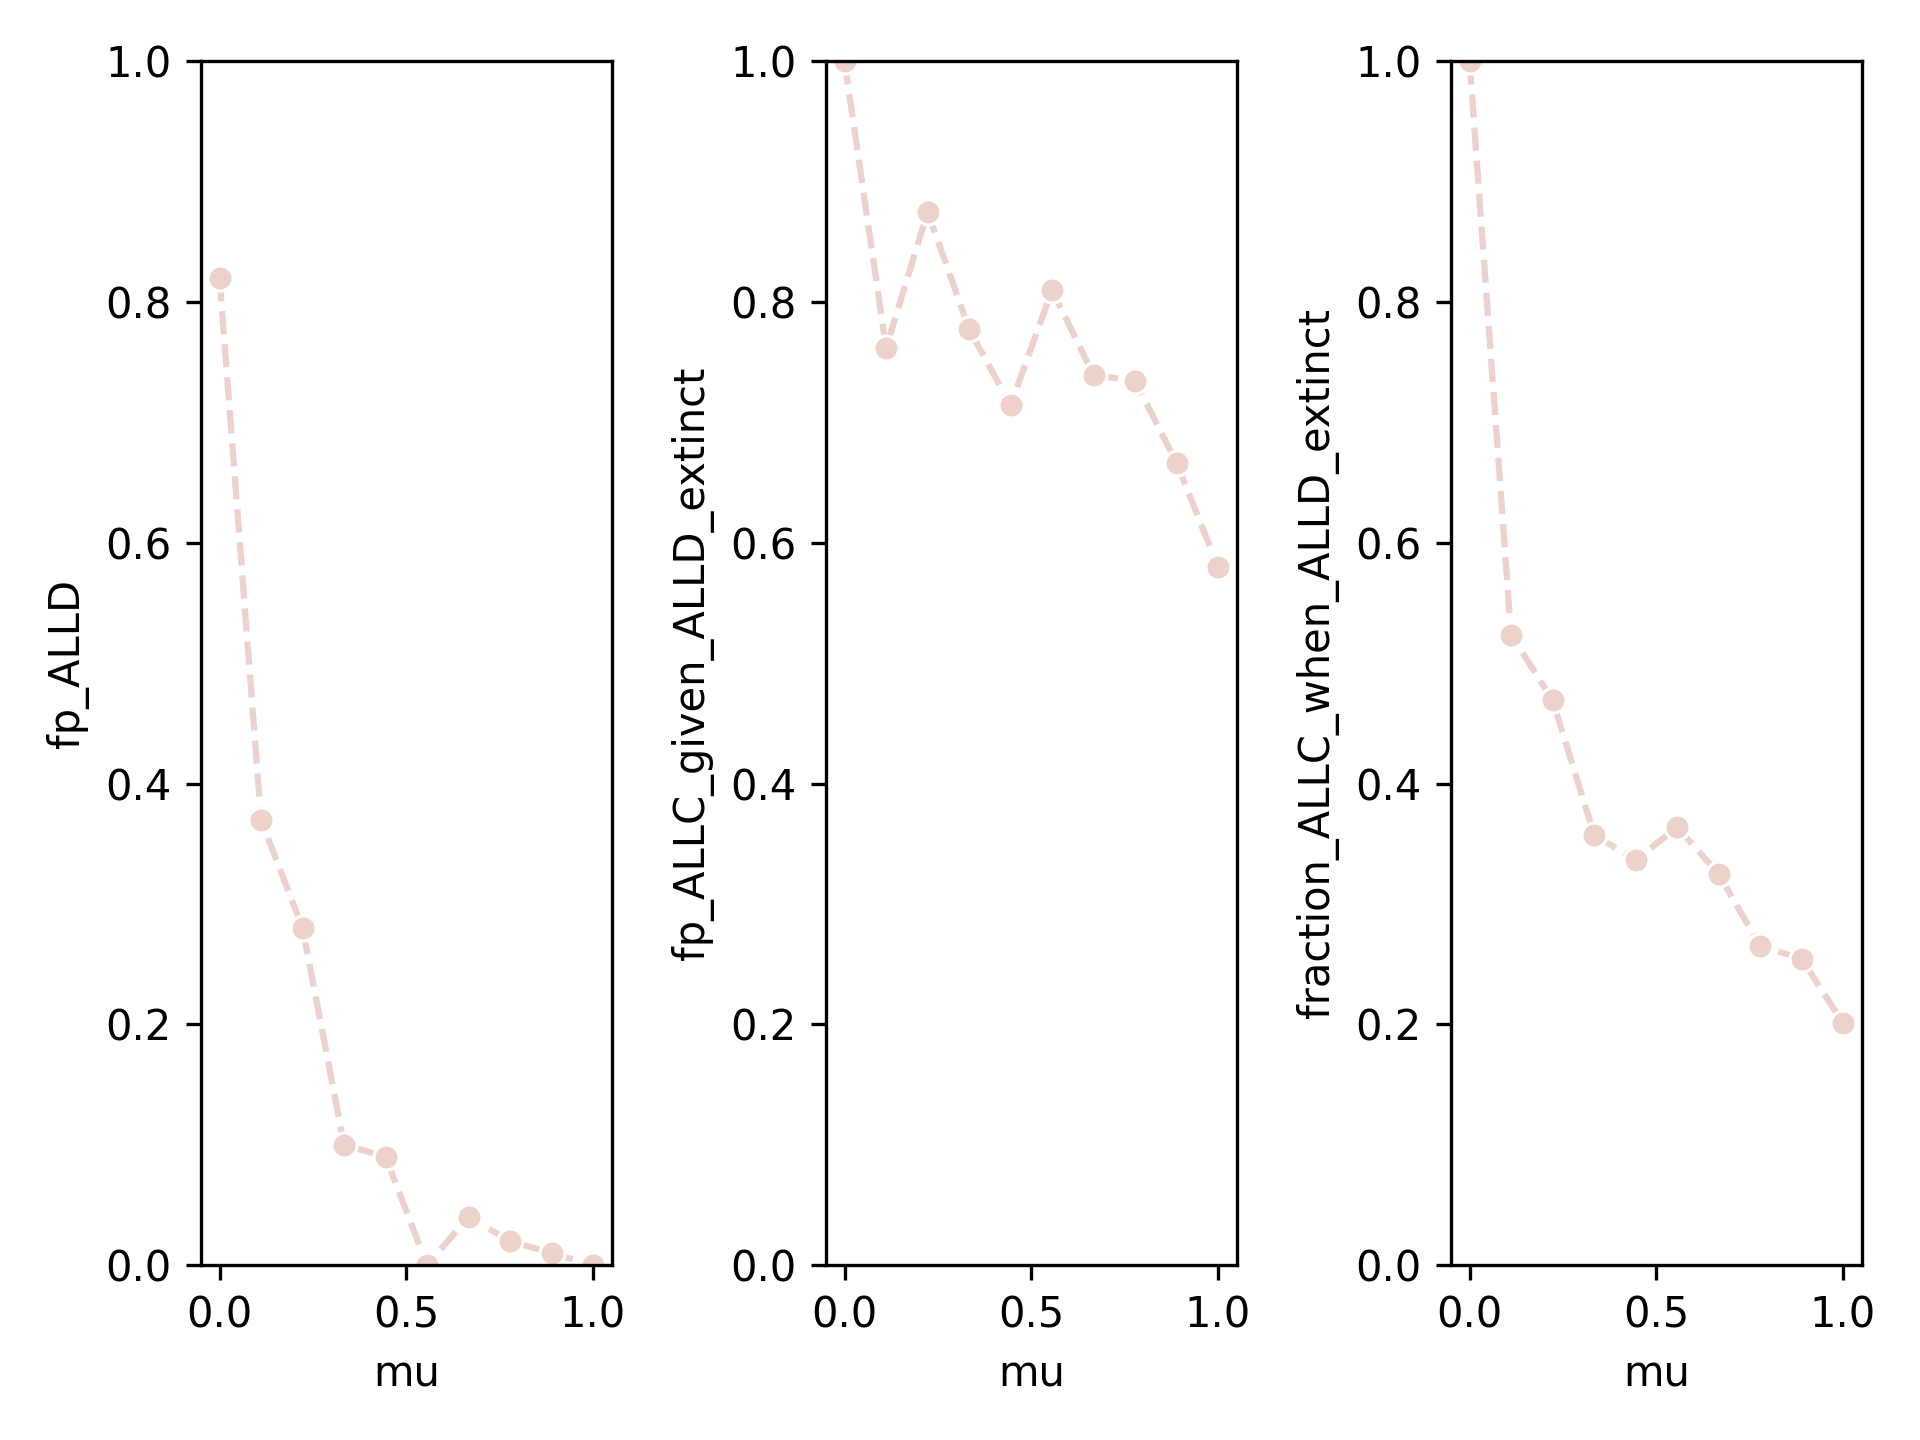
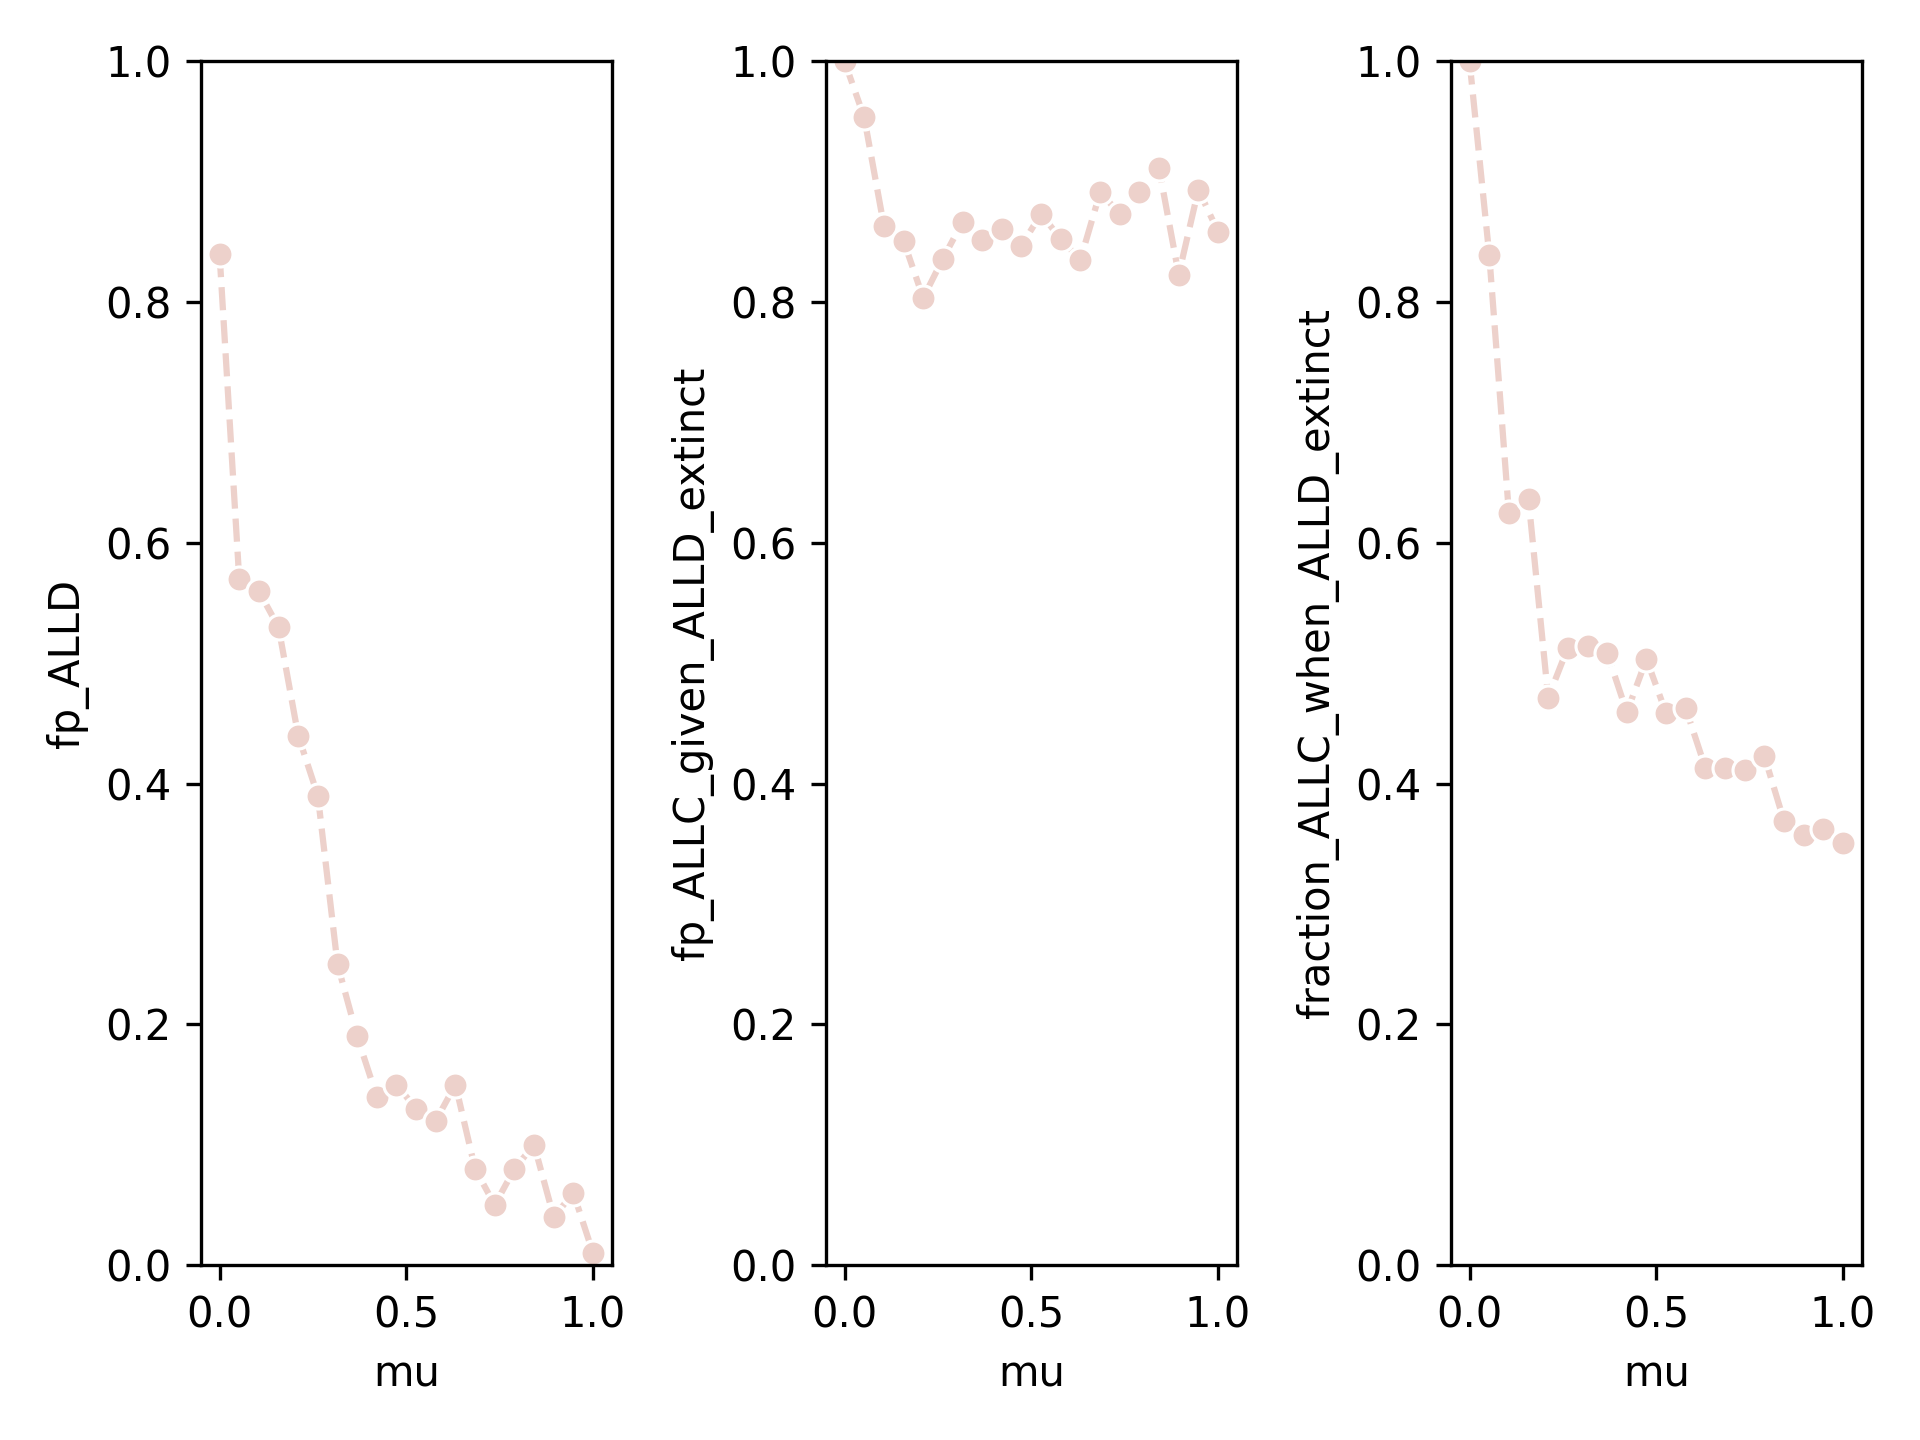
add figures

diff --git a/martins-dream.py b/martins-dream.py
@@ -56,13 +56,11 @@ def calculate_payoffs(N: int, nALLC: int, nTFT: int, M: Payoffs):
 
   return (payoff_ALLC, payoff_TFT, payoff_ALLD)
 
-
 def pick_individual_with_payoffs(N: int, nALLC: int, nTFT: int, M: Payoffs):
   calculate_payoffs(N, nALLC, nTFT, M)
   unnormalized_fitnesses = np.array(list(map(np.exp, calculate_payoffs(N, nALLC, nTFT, M))))
   total_fitness = sum(unnormalized_fitnesses)
   return random.choices(population=STRATEGIES, weights=unnormalized_fitnesses / total_fitness)[0]
-
 
 def pick_individual_uniformly(N: int, nALLC: int, nTFT: int, nALLD):
   return random.choices(population=STRATEGIES, weights=np.array([nALLC, nTFT, nALLD])/N)[0]
@@ -87,7 +85,7 @@ def pairwise_comparison(N: int, nALLC: int, nTFT: int, M: Payoffs, mu: float, ba
     N-1,
     nALLC-int(strategy_picked_for_update==Strategy.AlwaysCooperate),
     nTFT-int(strategy_picked_for_update==Strategy.TitForTat),
-    nALLD,
+    nALLD-int(strategy_picked_for_update==Strategy.AlwaysDefect),
   )
   ps = {s: pi for s, pi in zip(STRATEGIES, calculate_payoffs(N, nALLC, nTFT, M))}
 
@@ -105,7 +103,6 @@ def pairwise_comparison(N: int, nALLC: int, nTFT: int, M: Payoffs, mu: float, ba
     nALLC + int(new_strategy == Strategy.AlwaysCooperate) - int(strategy_picked_for_update == Strategy.AlwaysCooperate),
     nTFT + int(new_strategy == Strategy.TitForTat) - int(strategy_picked_for_update == Strategy.TitForTat),
   )
-    
 
 def imitation(N: int, nALLC: int, nTFT: int, M: Payoffs, mu: float, back_mu: float):
   assert 0 <= mu <= 1, mu
@@ -124,32 +121,44 @@ def imitation(N: int, nALLC: int, nTFT: int, M: Payoffs, mu: float, back_mu: flo
     nTFT + int(new_strategy == Strategy.TitForTat) - int(strategy_picked_for_update == Strategy.TitForTat),
   )
 
-def simulate(N: int, TRIALS: int, dynamics, mu: float, back_mu: float):
-  print('start', mu, back_mu)
-  fixated_ALLD = []
-  fixated_ALLC_given_ALLD_extinct = []
-  fractions_ALLC_when_ALLD_extinction = []
-  for _ in range(TRIALS):
-    nALLC = N-1
-    nTFT = 0
-    nALLD = 1
-    tracked_ALLD_extinction = False
-    while all(nX < N for nX in (nALLC, nTFT, nALLD)):
-      nALLCp, nTFTp = dynamics(N, nALLC, nTFT, M, mu=mu, back_mu=back_mu)
-      nALLC, nTFT, nALLD = (nALLCp, nTFTp, N-(nALLCp + nTFTp))
-      if nALLD == 0 and not tracked_ALLD_extinction:
-        fractions_ALLC_when_ALLD_extinction.append(nALLC / N)
-        tracked_ALLD_extinction = True
+def death_birth(N: int, nALLC: int, nTFT: int, M: Payoffs, mu: float, back_mu: float):
+  assert 0 <= mu <= 1, mu
+  nALLD = N-nALLC-nTFT
+  assert nALLC + nTFT + nALLD == N
+  assert all(nX >= 0 for nX in (nALLC, nTFT, nALLD)), (nALLC, nTFT, nALLD)
 
-    fixated_ALLD.append(nALLD == N)
-    if nALLD == 0:
-      fixated_ALLC_given_ALLD_extinct.append(nALLC == N)
+  strategy_to_die = pick_individual_uniformly(N, nALLC, nTFT, nALLD)
+  strategy_to_give_birth = pick_individual_with_payoffs(
+    N-1,
+    nALLC-int(strategy_to_die==Strategy.AlwaysCooperate),
+    nTFT-int(strategy_to_die==Strategy.TitForTat),
+    M,
+  )
+  new_strategy = possibly_mutate(strategy_to_give_birth, N, nTFT, nALLD, mu, back_mu)
+  return (
+    nALLC + int(new_strategy == Strategy.AlwaysCooperate) - int(strategy_to_die == Strategy.AlwaysCooperate),
+    nTFT + int(new_strategy == Strategy.TitForTat) - int(strategy_to_die == Strategy.TitForTat),
+  )
 
-  fp_ALLD = np.mean(fixated_ALLD)
-  fp_ALLC_given_ALLD_extinct = np.mean(fixated_ALLC_given_ALLD_extinct)
-  fraction_ALLC_when_ALLD_extinction = np.mean(fractions_ALLC_when_ALLD_extinction)
-  print('end', mu, back_mu)
-  return (N, mu, fp_ALLD, fp_ALLC_given_ALLD_extinct, fraction_ALLC_when_ALLD_extinction)
+def birth_death(N: int, nALLC: int, nTFT: int, M: Payoffs, mu: float, back_mu: float):
+  assert 0 <= mu <= 1, mu
+  nALLD = N-nALLC-nTFT
+  assert nALLC + nTFT + nALLD == N
+  assert all(nX >= 0 for nX in (nALLC, nTFT, nALLD)), (nALLC, nTFT, nALLD)
+
+  strategy_to_give_birth = pick_individual_with_payoffs(N, nALLC, nTFT, M)
+  strategy_to_die = pick_individual_uniformly(
+    N-1,
+    nALLC-int(strategy_to_give_birth==Strategy.AlwaysCooperate),
+    nTFT-int(strategy_to_give_birth==Strategy.TitForTat),
+    nALLD-int(strategy_to_give_birth==Strategy.AlwaysDefect),
+  )
+  new_strategy = possibly_mutate(strategy_to_give_birth, N, nTFT, nALLD, mu, back_mu)
+  return (
+    nALLC + int(new_strategy == Strategy.AlwaysCooperate) - int(strategy_to_die == Strategy.AlwaysCooperate),
+    nTFT + int(new_strategy == Strategy.TitForTat) - int(strategy_to_die == Strategy.TitForTat),
+  )
+
 
 def wrong(N: int, nALLC: int, nTFT: int, M: Payoffs, mu: float, back_mu: float):
   assert 0 <= mu <= 1, mu
@@ -177,39 +186,86 @@ def wrong(N: int, nALLC: int, nTFT: int, M: Payoffs, mu: float, back_mu: float):
     nTFT + int(new_strategy == Strategy.TitForTat) - int(strategy_picked_for_update == Strategy.TitForTat),
   )
 
+
+def simulate(N: int, TRIALS: int, dynamics, mu: float, back_mu: float):
+  print('start', mu, back_mu)
+  fixated_ALLD = []
+  fixated_ALLC_given_ALLD_extinct = []
+  fractions_ALLC_when_ALLD_extinction = []
+  for _ in range(TRIALS):
+    nALLC = N-1
+    nTFT = 0
+    nALLD = 1
+    tracked_ALLD_extinction = False
+    while all(nX < N for nX in (nALLC, nTFT, nALLD)):
+      nALLCp, nTFTp = dynamics(N, nALLC, nTFT, M, mu=mu, back_mu=back_mu)
+      nALLC, nTFT, nALLD = (nALLCp, nTFTp, N-(nALLCp + nTFTp))
+      if nALLD == 0 and not tracked_ALLD_extinction:
+        fractions_ALLC_when_ALLD_extinction.append(nALLC / N)
+        tracked_ALLD_extinction = True
+
+    fixated_ALLD.append(nALLD == N)
+    if nALLD == 0:
+      fixated_ALLC_given_ALLD_extinct.append(nALLC == N)
+
+  fp_ALLD = np.mean(fixated_ALLD)
+  fp_ALLC_given_ALLD_extinct = np.mean(fixated_ALLC_given_ALLD_extinct)
+  fraction_ALLC_when_ALLD_extinction = np.mean(fractions_ALLC_when_ALLD_extinction)
+  print('end', mu, back_mu)
+  return (N, mu, back_mu, fp_ALLD, fp_ALLC_given_ALLD_extinct, fraction_ALLC_when_ALLD_extinction)
+
+
 DYNAMICS = {
   'imitation': imitation,
-  'pairwise_comparison': pairwise_comparison,
+  'pairwise-comparison': pairwise_comparison,
+  'birth-death': birth_death,
+  'death-birth': death_birth,
   'wrong': wrong,
 }
+
 
 import itertools
 
 def main():
-  INTERVALS = 20
-  TRIALS = 10_000
+  INTERVALS = 10
+  TRIALS = 1000
   NUM_WORKERS = 8
+  DYNAMIC = 'death-birth'
   data = []
+  TICKS = np.linspace(0, 1, INTERVALS, endpoint=True) 
+  TICK_LABELS = [('0' if tick == 0 else '1' if tick == 1 else '') for tick in TICKS]
   for N in (10,):
-    mus = np.linspace(0, 1, INTERVALS, endpoint=True)
-    # back_mus = np.linspace(0, 1, INTERVALS, endpoint=True)
-    mutations = [(mu, 0) for mu in mus]# itertools.product(mus, back_mus)
+    mus = TICKS
+    back_mus = TICKS
+    # mutations = [(mu, 0) for mu in mus]
+    mutations = list(itertools.product(mus, back_mus))
     print(mutations)
     with Pool(NUM_WORKERS) as p:
-      for datum in p.starmap(functools.partial(simulate, N, TRIALS, DYNAMICS['pairwise_comparison']), mutations):
+      for datum in p.starmap(functools.partial(simulate, N, TRIALS, DYNAMICS[DYNAMIC]), mutations):
         data.append(datum)
 
-  df = pd.DataFrame(data, columns=['N', 'mu', 'fp_ALLD', 'fp_ALLC_given_ALLD_extinct', 'fraction_ALLC_when_ALLD_extinct'])
+  df = pd.DataFrame(data, columns=['N', 'mu', 'back_mu', 'fp_ALLD', 'fp_ALLC_given_ALLD_extinct', 'fraction_ALLC_when_ALLD_extinct'])
 
   fig, ax = plt.subplots(1,3)
-  sns.lineplot(df, ax=ax[0], x='mu', y='fp_ALLD', hue='N', linestyle='--', marker='o', legend=False)
-  sns.lineplot(df, ax=ax[1], x='mu', y='fp_ALLC_given_ALLD_extinct', hue='N', linestyle='--', marker='o', legend=False)
-  sns.lineplot(df, ax=ax[2], x='mu', y='fraction_ALLC_when_ALLD_extinct', hue='N', linestyle='--', marker='o', legend=False)
-  for i in range(3):
-    ax[i].set_ylim((0, 1))
+  for i, value in enumerate(('fp_ALLD', 'fp_ALLC_given_ALLD_extinct', 'fraction_ALLC_when_ALLD_extinct')):
+    sns.heatmap(
+      data=df.pivot(index='back_mu', columns='mu', values=value).sort_index(ascending=False, level=0),
+      ax=ax[i],
+      xticklabels=TICK_LABELS,
+      yticklabels=list(reversed(TICK_LABELS)),
+      vmin=0,
+      vmax=1,
+      cbar_kws={'label': value, "shrink": 0.25}
+    ) 
+    ax[i].axis('scaled')
+    # ax[i].set_ylim((0, 1))
+  # sns.lineplot(df, ax=ax[1], x='mu', y='fp_ALLC_given_ALLD_extinct', hue='N', linestyle='--', marker='o', legend=False)
+  # sns.lineplot(df, ax=ax[2], x='mu', y='fraction_ALLC_when_ALLD_extinct', hue='N', linestyle='--', marker='o', legend=False)
+  # for i in range(3):
 
   plt.tight_layout()
-  fig.savefig(f'figs/M-fp_ALLD-saptarshi-{TRIALS=}-pc-fraction-back-mu.png', dpi=300)
+  fig.suptitle(f"{DYNAMIC=}, {N=}, {TRIALS=}")
+  fig.savefig(f'figs/M-fp_ALLD-saptarshi-{TRIALS=}-db-fraction-back-mu.png', dpi=300)
   plt.show()
 
 if __name__ == '__main__':
